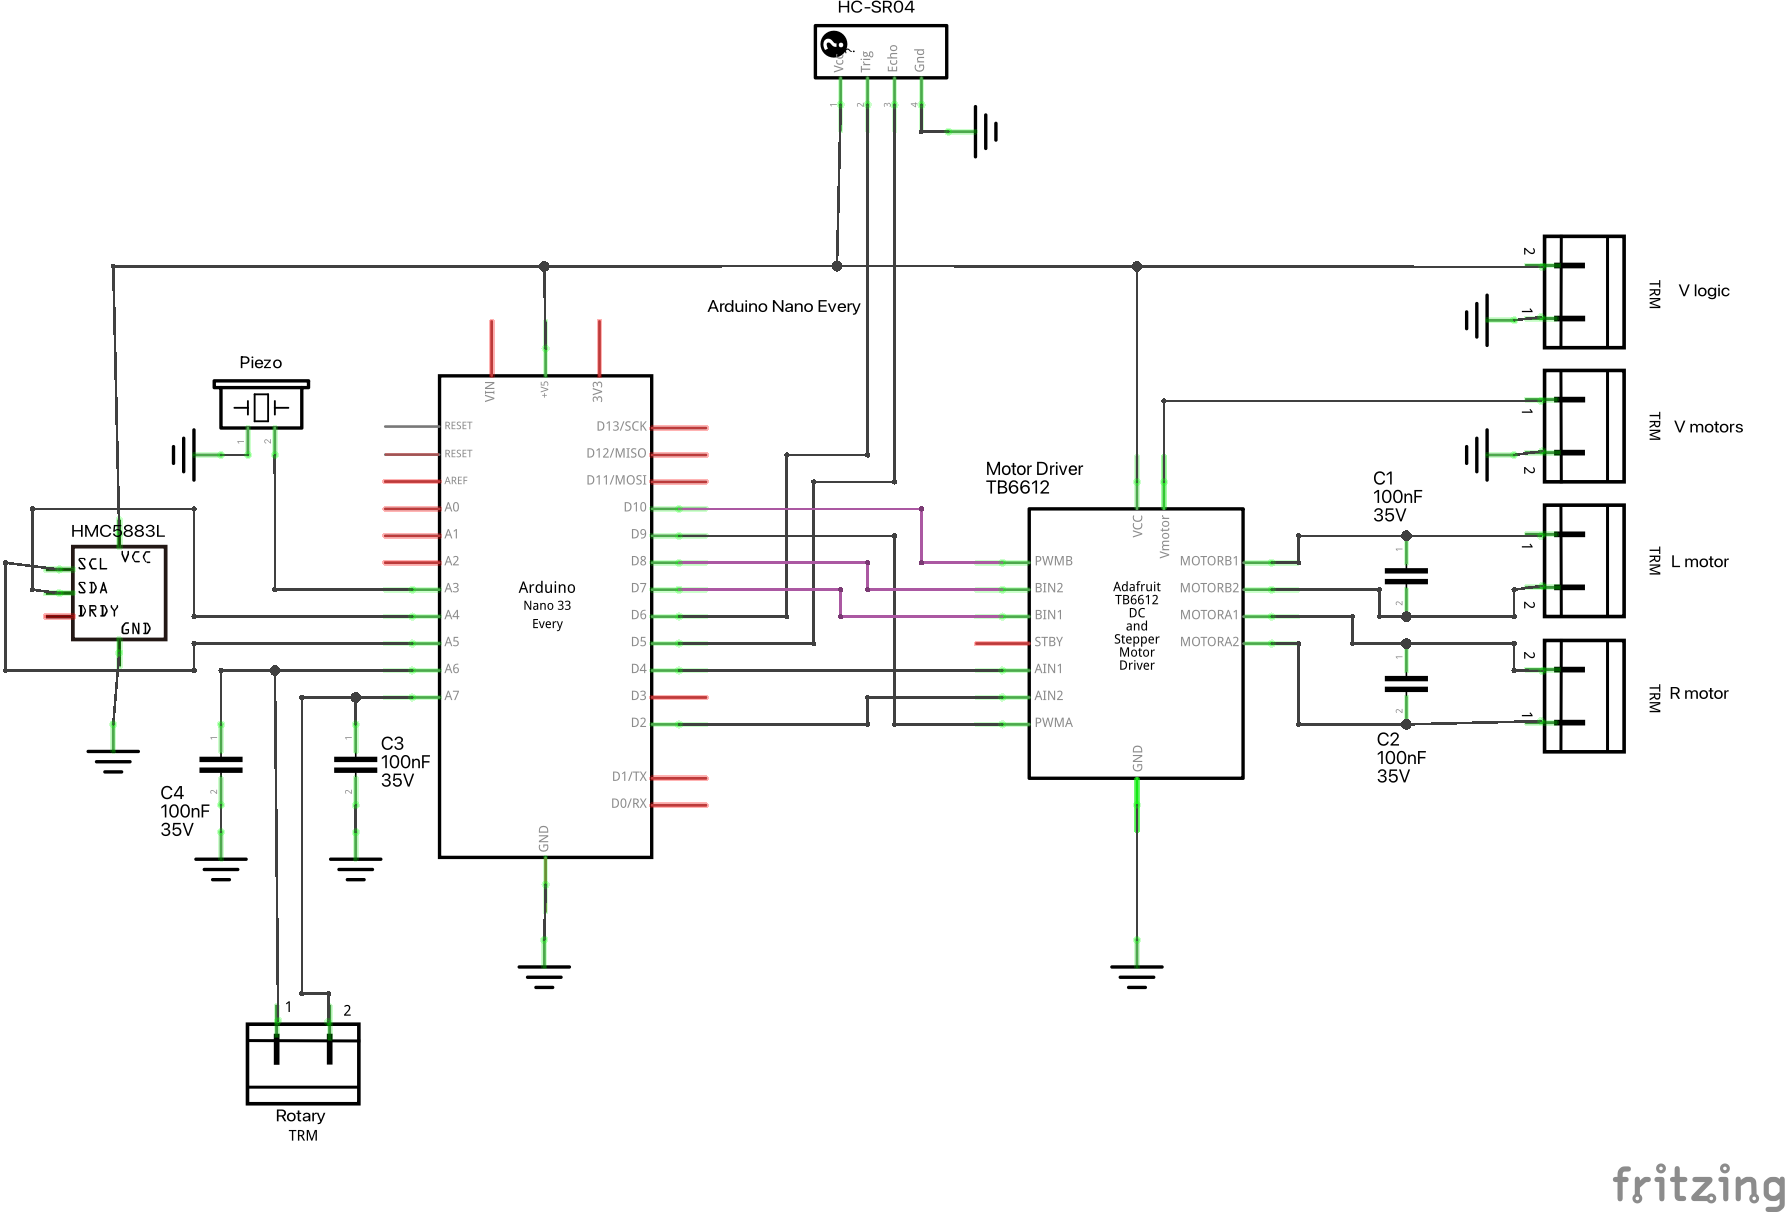
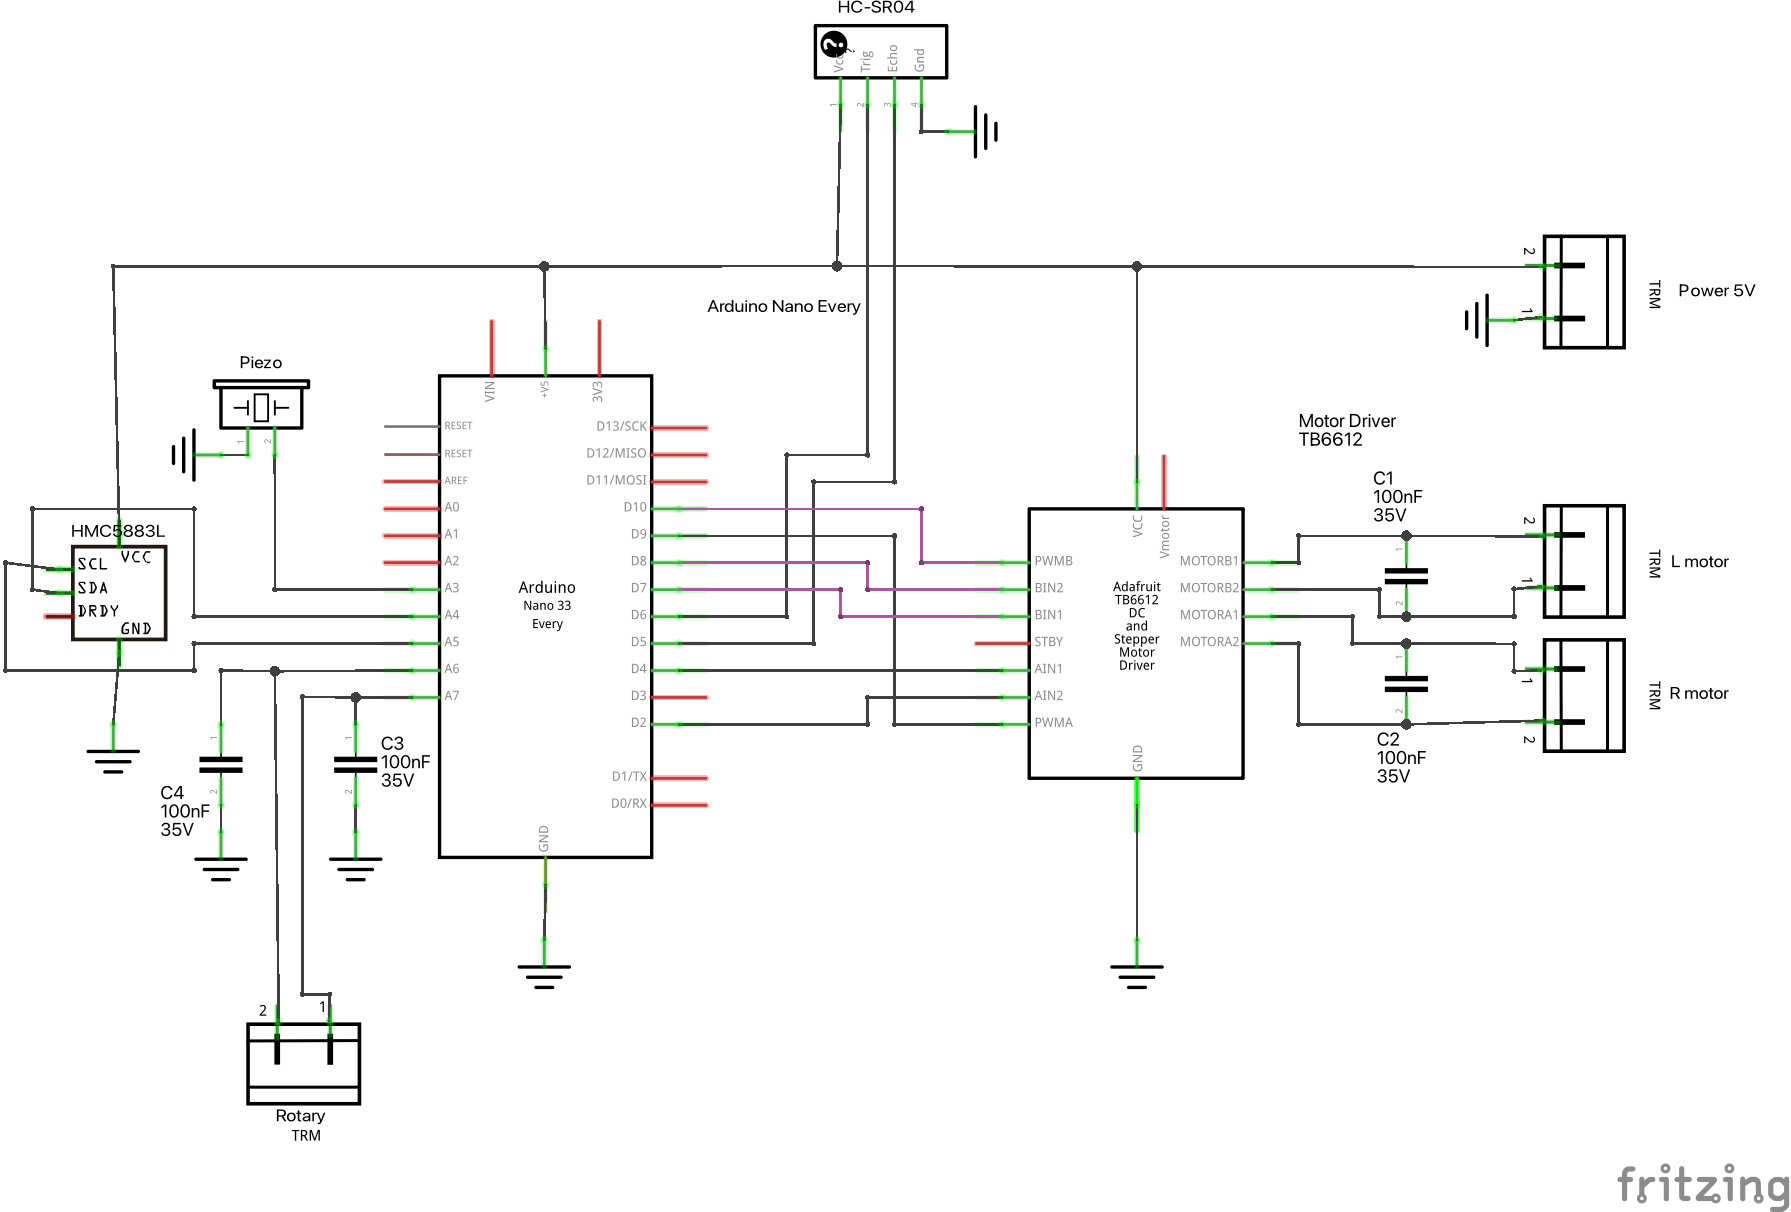
🎨 Improve motor driver routing

diff --git a/README.md b/README.md
@@ -1,7 +1,3 @@
 # Schematics
 
 ![Schematics image](robot_schem.png)
-
-# PCB
-
-![PCB image](robot_pcb.png)
